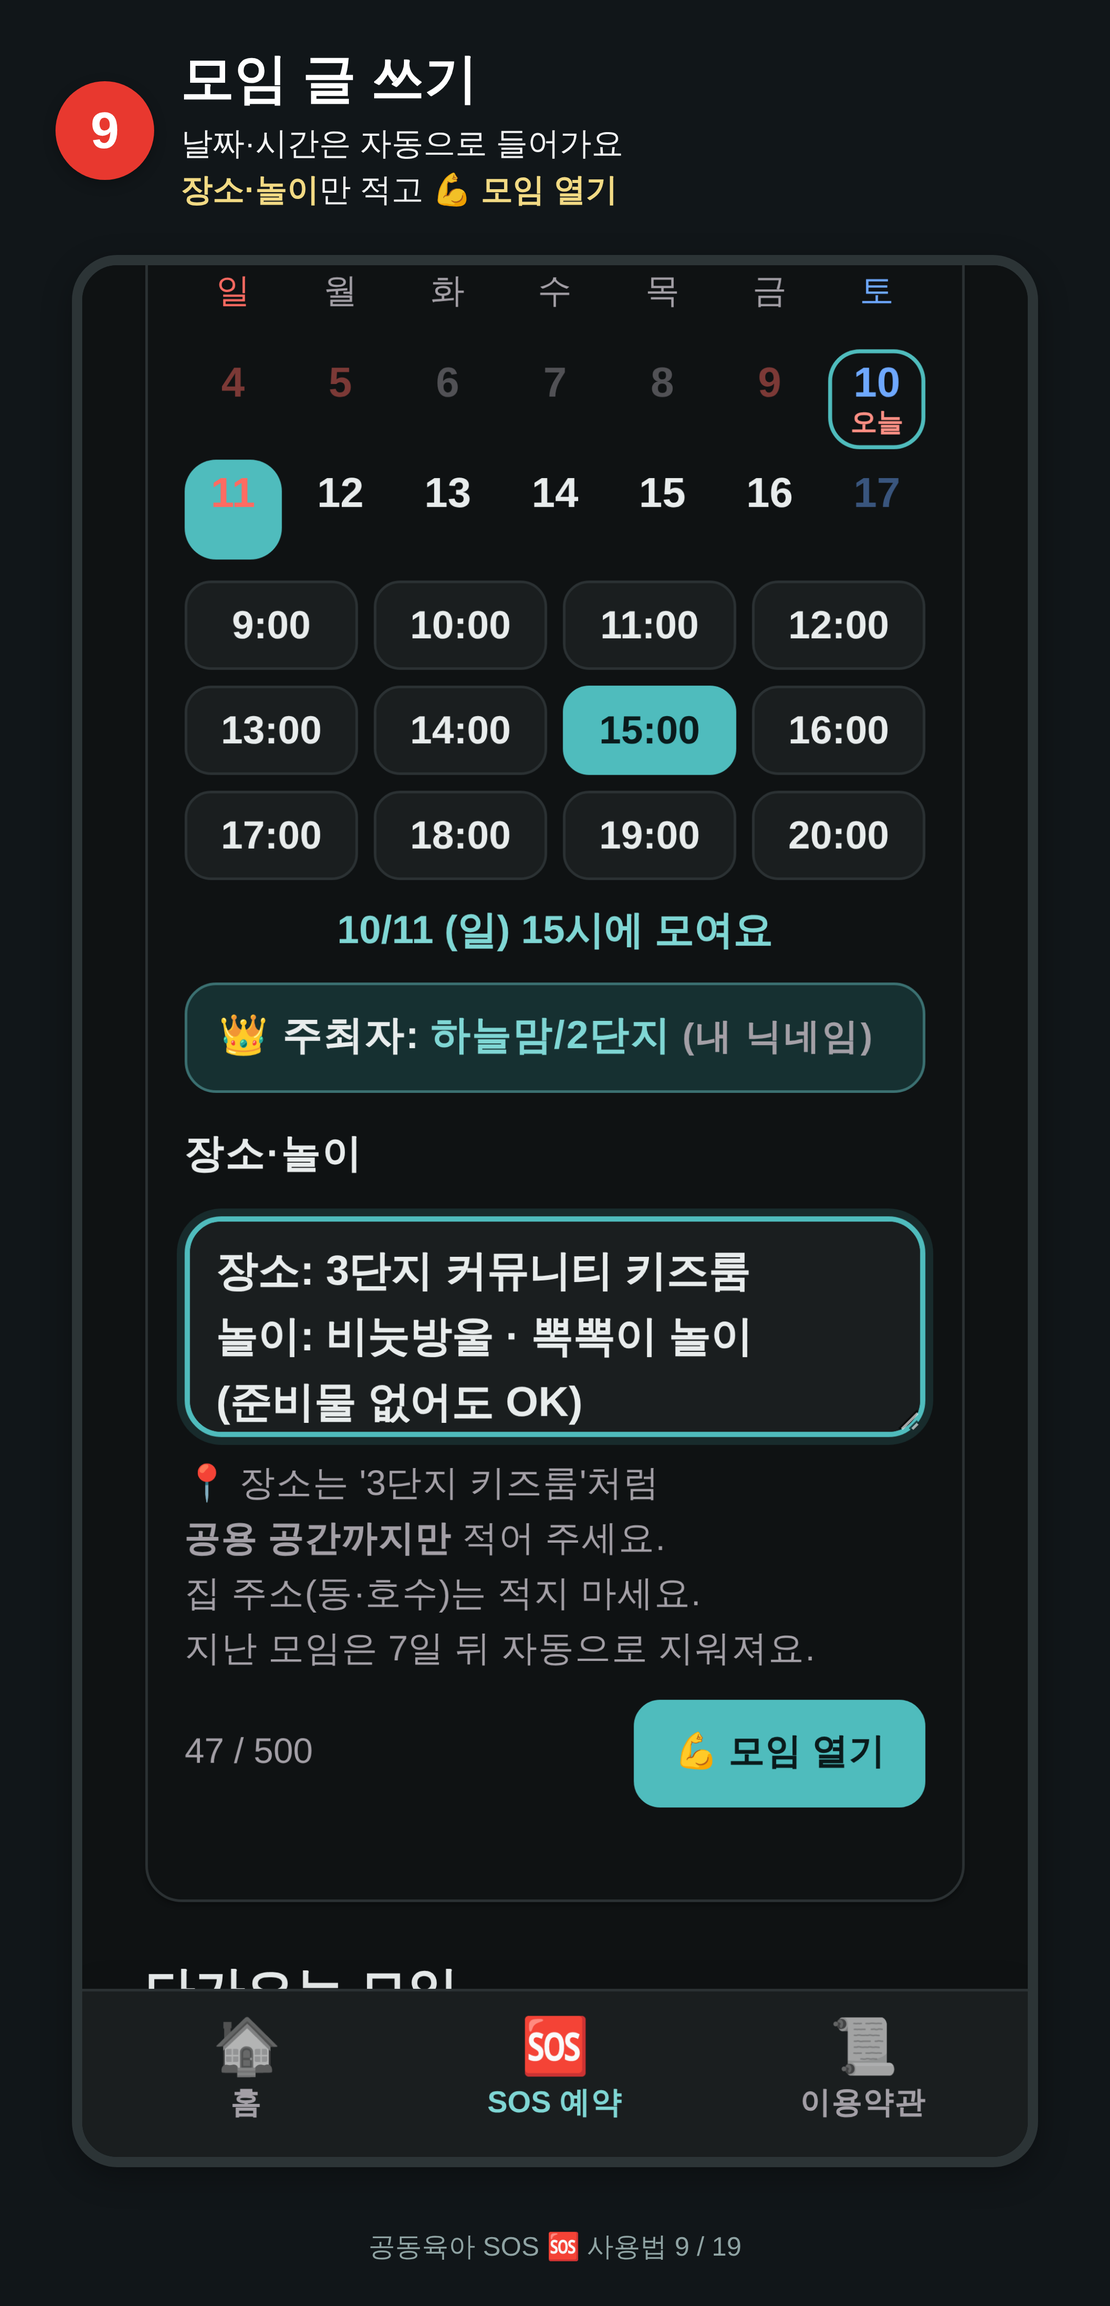
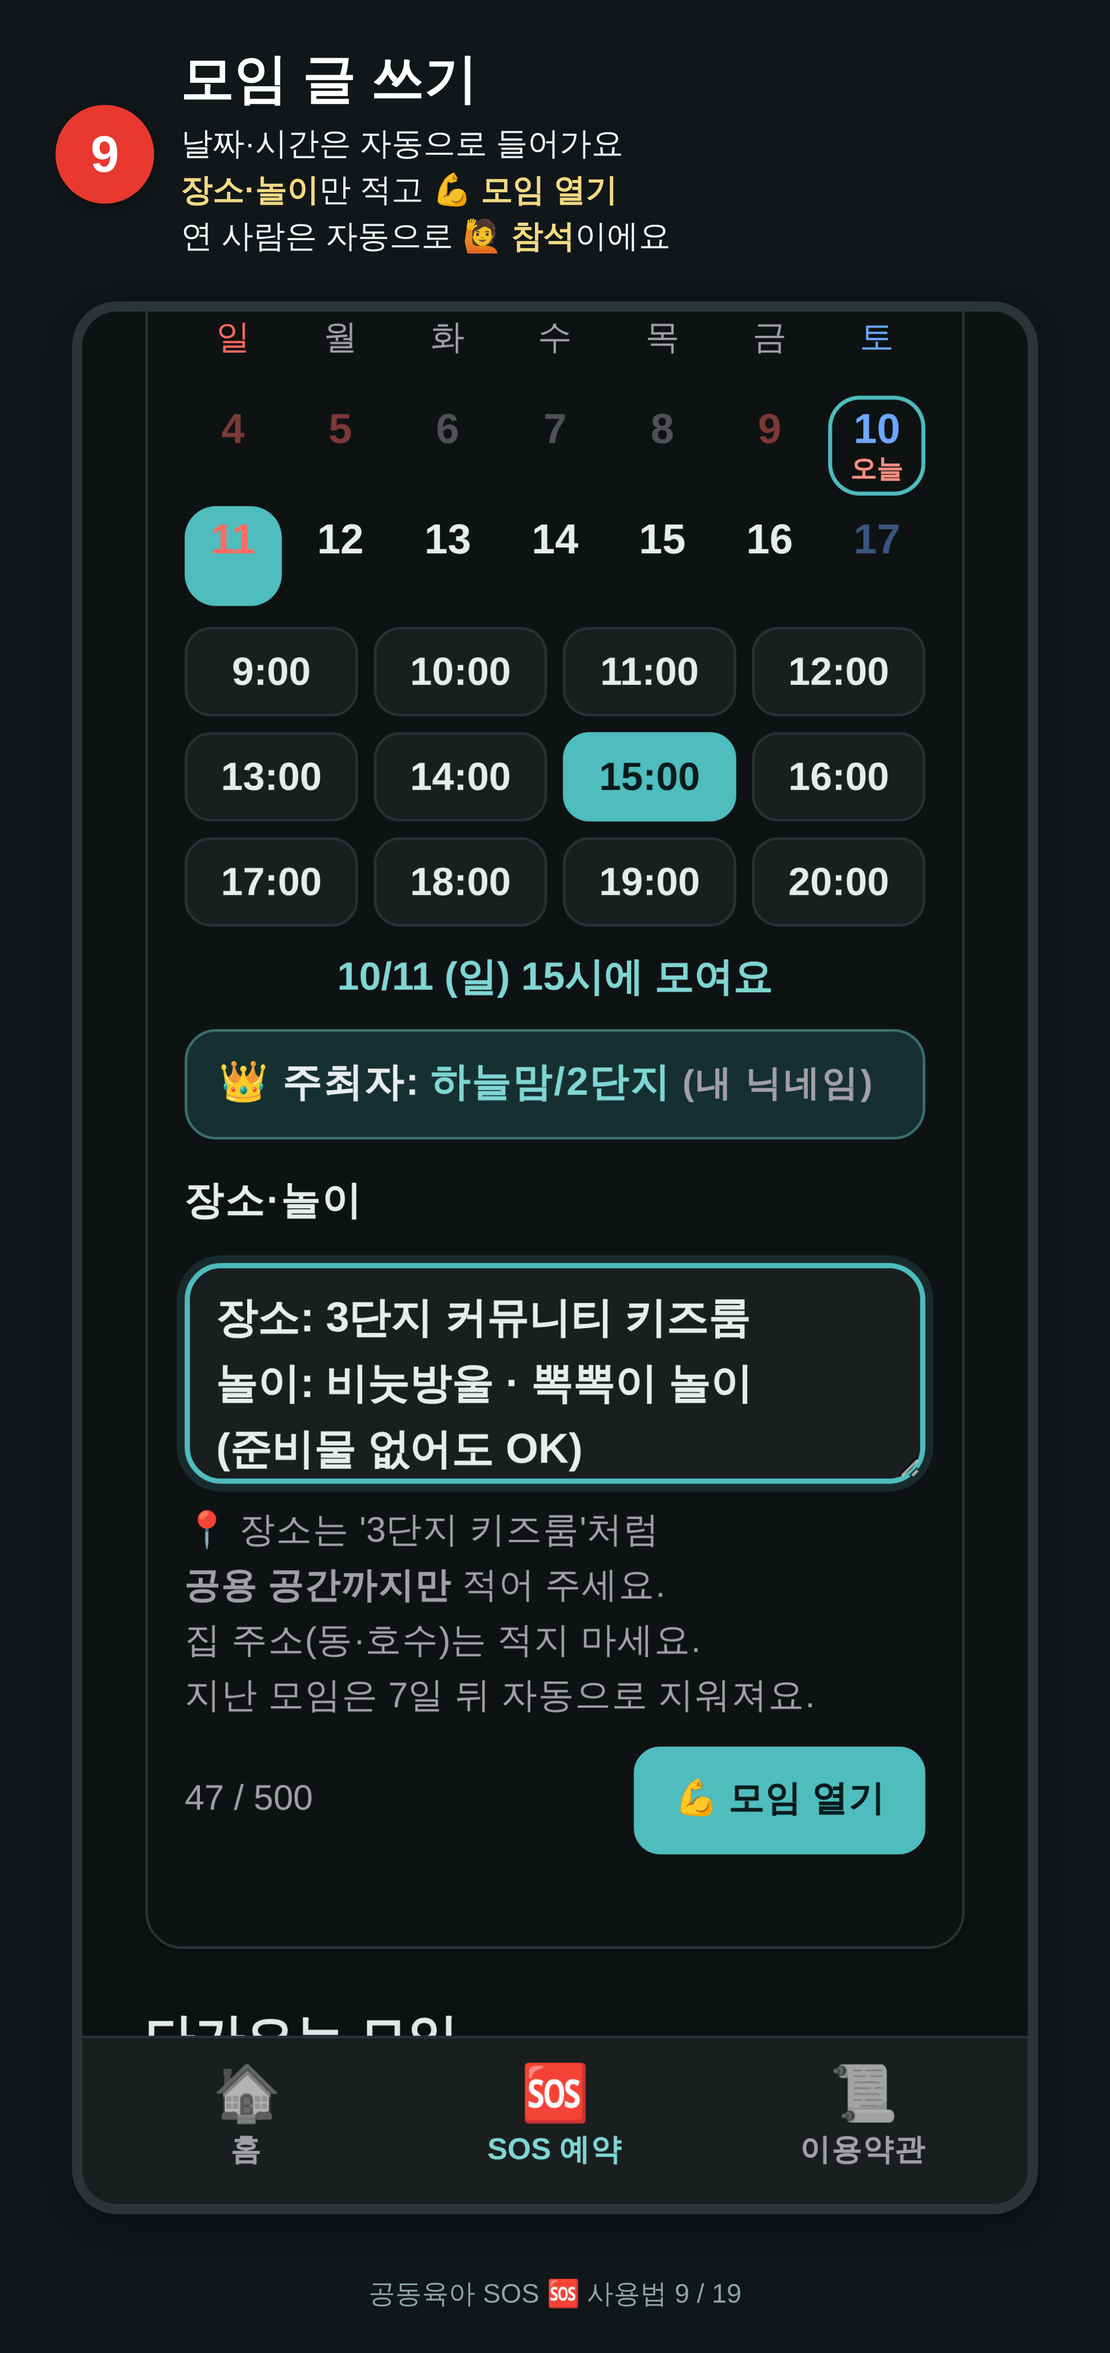
Update terms, privacy and guide: browser type, visit counts, join log, host auto-attend, install tip
Claude-Session: https://claude.ai/code/session_01EFizHcDdWswyQN5TmKwWHe

diff --git a/sos/safety.html b/sos/safety.html
@@ -8,14 +8,14 @@
 <link rel="preconnect" href="https://fonts.gstatic.com" crossorigin>
 <link rel="stylesheet" href="https://fonts.googleapis.com/css2?family=IBM+Plex+Sans+KR:wght@400;500;600;700&display=swap">
 <link rel="icon" href="assets/icon.svg" type="image/svg+xml">
-<link rel="manifest" href="manifest.webmanifest?v=202610110428">
+<link rel="manifest" href="manifest.webmanifest?v=202610110430">
 <meta name="theme-color" content="#2a9095">
 <link rel="apple-touch-icon" href="assets/icon-sos-180.png">
 <meta name="apple-mobile-web-app-capable" content="yes">
 <meta name="mobile-web-app-capable" content="yes">
 <meta name="apple-mobile-web-app-title" content="공동육아 SOS">
-<link rel="stylesheet" href="assets/common.css?v=202610110428">
-<script src="assets/gate.js?v=202610110428"></script>
+<link rel="stylesheet" href="assets/common.css?v=202610110430">
+<script src="assets/gate.js?v=202610110430"></script>
 </head>
 <body>
 <div class="wrap single">
@@ -80,8 +80,8 @@
         <li>회원가입이 없어요. <b>실명, 전화번호, 카카오 계정, 이메일을 받지 않아요.</b></li>
         <li>휴대폰마다 Firebase <b>익명 로그인</b>으로 보이지 않는 번호(uid)가 하나 생겨요. 이 번호로 '이 휴대폰이 방 멤버인지'만 확인해요. 이 번호에는 이름·전화번호가 없어요.</li>
         <li>사진·위치·연락처·카메라 권한을 요청하지 않아요.</li>
-        <li>이 사이트 코드에는 광고, 방문 추적(애널리틱스), 쿠키 수집이 없어요.</li>
-        <li>글을 저장할 때 IP 주소나 기기 정보를 함께 적지 않아요. 저장되는 칸은 아래 표가 전부예요.</li>
+        <li>광고, 외부 방문 추적 도구(애널리틱스), 광고용 쿠키가 없어요. 운영 확인용으로 <b>날짜별 방문 숫자</b>(오늘 몇 명·몇 번 열었는지)만 세요. 누가 들어왔는지는 남기지 않아요.</li>
+        <li>IP 주소, 기기 모델, 전화번호 같은 기기 정보는 저장하지 않아요. 중복 정리를 위해 <b>어떤 종류의 브라우저인지</b>(예: 크롬·카톡)만 남겨요. 저장되는 칸은 아래 표가 전부예요.</li>
       </ul>
     </section>
 
@@ -90,9 +90,10 @@
       <table class="safe-table">
         <tr><th>어디서</th><th>저장되는 것</th></tr>
         <tr><td>🏠 모임 방</td><td><b>방 이름만</b>. 비밀번호는 저장하지 않아요. 비밀번호로 만든 암호화된 열쇠가 방 주소가 돼서, 비밀번호를 아는 사람만 방을 찾을 수 있어요.</td></tr>
-        <tr><td>🙋 멤버</td><td>방에서 쓰는 <b>닉네임</b>(직접 적은 것), 들어온 시각, 마지막 접속 시간(방장만 봐요. 1시간 단위로 남아요. 중복·오래 안 온 멤버 정리와 방장 이어받기에 써요), 익명 로그인 번호(uid). 내보내진 사람의 내보낸 시각과 <b>'다시 받아 주세요' 부탁 글</b>(방장만 봐요. 내보낸 지 30일이 지나거나 허용·거절하면 지워져요)</td></tr>
+        <tr><td>🙋 멤버</td><td>방에서 쓰는 <b>닉네임</b>(직접 적은 것), 들어온 시각, 마지막 접속 시간(방장만 봐요. 1시간 단위로 남아요. 중복·오래 안 온 멤버 정리와 방장 이어받기에 써요), <b>쓰는 브라우저 종류</b>(크롬·사파리·카톡 등 정해진 이름 하나. 방장만 봐요. 같은 사람이 두 번 들어온 중복을 찾는 데 써요), 익명 로그인 번호(uid). 내보내진 사람의 내보낸 시각과 <b>'다시 받아 주세요' 부탁 글</b>(방장만 봐요. 내보낸 지 30일이 지나거나 허용·거절하면 지워져요)</td></tr>
         <tr><td>🆘 SOS 요청</td><td>날짜·시간 + <b>요청한 사람의 닉네임</b>. 방 사람들은 시간 숫자를 눌러 누가 보냈는지 볼 수 있어요.</td></tr>
-        <tr><td>🙌 모임</td><td>날짜·시간, 장소/놀이 글, <b>주최자 닉네임</b>, 참석·미확정·불참한 사람의 닉네임, 댓글 글과 닉네임</td></tr>
+        <tr><td>🙌 모임</td><td>날짜·시간, 장소/놀이 글, <b>주최자 닉네임</b>(연 사람은 처음부터 '참석'으로 표시돼요), 참석·미확정·불참한 사람의 닉네임, 댓글 글과 닉네임</td></tr>
+        <tr><td>📈 운영 통계</td><td>방 사람들은 볼 수 없고 <b>운영자만</b> 봐요. ① 날짜별 방문자 수·조회수 숫자 두 개 (누가 왔는지는 없어요) ② 방마다 '들어온 시각' 기록 (닉네임 없이 시각만. 누적 가입자 수를 세는 데 써요)</td></tr>
       </table>
       <p class="hint">모임 방마다 따로 저장돼서, <b>방 비밀번호를 아는 사람만</b> 그 방의 SOS·모임·댓글을 볼 수 있어요. 다른 방 사람은 볼 수 없어요.<br>통신은 모두 암호화(HTTPS)돼요. 서버는 Google Firebase를 써요.</p>
     </section>
@@ -104,6 +105,7 @@
         <li>들어간 모임 방 목록과 방 열쇠 (비밀번호 자체가 아니라 암호화된 값)</li>
         <li>내 댓글 열쇠 — 그래서 댓글 '수정'·'삭제'는 쓴 휴대폰에만 보여요 (서버에는 열쇠의 지문만 저장돼요)</li>
         <li>마지막으로 쓴 닉네임 (다음 방에 들어갈 때 미리 채워 줘요)</li>
+        <li>오늘 방문을 이미 셌는지 표시 (같은 휴대폰을 하루에 한 번만 세려고요)</li>
       </ul>
       <p class="hint">브라우저의 '인터넷 기록/사이트 데이터 삭제'를 하면 이 기록과 익명 로그인 번호가 지워져요. 그러면 방에 다시 들어갈 때 비밀번호와 닉네임을 다시 넣어요. (서버에 올라간 글은 그대로예요)</p>
     </section>
@@ -135,8 +137,8 @@
 <script src="https://www.gstatic.com/firebasejs/10.12.0/firebase-auth-compat.js"></script>
 <script src="https://www.gstatic.com/firebasejs/10.12.0/firebase-firestore-compat.js"></script>
 <script src="https://www.gstatic.com/firebasejs/10.12.0/firebase-messaging-compat.js"></script>
-<script src="assets/common.js?v=202610110428"></script>
-<script src="assets/push.js?v=202610110428"></script>
+<script src="assets/common.js?v=202610110430"></script>
+<script src="assets/push.js?v=202610110430"></script>
 <script>
 document.getElementById('deleteMe').addEventListener('click', async e => {
   const owning = sosRooms().filter(r => r.owner).map(r => r.name);   // 내가 방장인 방이 있으면 먼저 알려 줘요

diff --git a/sos/terms.html b/sos/terms.html
@@ -8,14 +8,14 @@
 <link rel="preconnect" href="https://fonts.gstatic.com" crossorigin>
 <link rel="stylesheet" href="https://fonts.googleapis.com/css2?family=IBM+Plex+Sans+KR:wght@400;500;600;700&display=swap">
 <link rel="icon" href="assets/icon.svg" type="image/svg+xml">
-<link rel="manifest" href="manifest.webmanifest?v=202610110428">
+<link rel="manifest" href="manifest.webmanifest?v=202610110430">
 <meta name="theme-color" content="#2a9095">
 <link rel="apple-touch-icon" href="assets/icon-sos-180.png">
 <meta name="apple-mobile-web-app-capable" content="yes">
 <meta name="mobile-web-app-capable" content="yes">
 <meta name="apple-mobile-web-app-title" content="공동육아 SOS">
-<link rel="stylesheet" href="assets/common.css?v=202610110428">
-<script src="assets/gate.js?v=202610110428"></script>
+<link rel="stylesheet" href="assets/common.css?v=202610110430">
+<script src="assets/gate.js?v=202610110430"></script>
 </head>
 <body>
 <div class="wrap single">
@@ -62,7 +62,7 @@
       <h2>👑 방장은 이렇게 해요</h2>
       <ul class="safe-short">
         <li>방을 만든 사람이 방장이에요.<br>멤버 관리와 방 지우기를 해요.</li>
-        <li>방장에게는 멤버의 <b>마지막 접속 시간</b>이<br>최근 순으로 보여요.<br>중복 기록·오래 안 온 멤버를 정리할 때 써요.</li>
+        <li>방장에게는 멤버의 <b>마지막 접속 시간</b>과<br><b>쓰는 브라우저</b>(크롬·카톡 등 로고)가 보여요.<br>중복 기록·오래 안 온 멤버를 정리할 때 써요.</li>
         <li>공동육아를 졸업하면 <b>👑 방장 넘기기</b>로<br>다른 멤버에게 넘겨 주세요.</li>
         <li>방장이 60일 넘게 안 들어오거나 나가면,<br>멤버 누구나 방장을 <b>이어받을</b> 수 있어요.</li>
         <li>실수로 내보내진 사람은<br><b>🙋 다시 받아 달라는 부탁</b>을<br>보낼 수 있어요.<br>방장은 👥 멤버의 빨간 <b>N</b>으로 보고<br>허용하거나 거절해요.</li>
@@ -75,6 +75,7 @@
       <ul class="safe-short">
         <li>키즈룸·커뮤니티·놀이터처럼<br><b>공용 공간</b>에서 만나요.</li>
         <li>아이는 <b>보호자가 직접</b> 돌봐요.</li>
+        <li>모임을 연 사람은 처음부터 <b>참석</b>으로 표시돼요.<br>못 가게 되면 미확정·불참으로 바꿔 주세요.</li>
         <li>모임 중 생긴 일은 참여한 사람들끼리<br>서로 존중하며 해결해 주세요.<br>운영자는 모임 자체에 책임지지 않아요.</li>
       </ul>
     </section>
@@ -83,11 +84,12 @@
       <h2>🔒 개인정보는 이렇게 다뤄요</h2>
       <ul class="safe-short">
         <li><b>실명·전화번호·이메일은 받지 않아요.</b><br>방에서 쓸 <b>닉네임</b>만 정해요.</li>
-        <li>서버에 남는 것: 방 이름, 닉네임,<br>마지막 접속 시간, SOS 요청 날짜·시간,<br>모임 글·참석·댓글,<br>내보낸 시각과 부탁 글<br>(30일 뒤 또는 허용·거절하면 지워져요)</li>
+        <li>서버에 남는 것: 방 이름, 닉네임,<br>마지막 접속 시간, 브라우저 종류,<br>SOS 요청 날짜·시간,<br>모임 글·참석·댓글,<br>내보낸 시각과 부탁 글<br>(30일 뒤 또는 허용·거절하면 지워져요)</li>
         <li>비밀번호는 저장하지 않아요.<br><b>우리 방 사람만</b> 기록을 볼 수 있어요.</li>
         <li>SOS·모임·댓글은 날짜가 지나고<br><b>7일 뒤 자동으로 지워져요.</b></li>
         <li>휴대폰마다 보이지 않는 로그인 번호가<br>하나 생겨요. 멤버인지 확인하는 데만 써요.</li>
         <li>알림을 켜면 <b>알림 주소</b>만<br>Google 알림 서버에 등록돼요.</li>
+        <li>운영자는 날짜별 <b>방문자 수 숫자</b>만 봐요.<br>누가 들어왔는지는 남기지 않아요.</li>
       </ul>
       <p class="hint">자세한 내용은 <a href="safety.html">🔒 개인정보 안내</a>에 있어요.</p>
     </section>
@@ -103,13 +105,13 @@
     <section class="safe-card">
       <h2>✉ 문의 · 신고</h2>
       <p>운영자: <span data-contact></span><br>개인정보 안내는 <a href="safety.html">🔒 개인정보 페이지</a>에 있어요.</p>
-      <p class="hint">이 약관은 2026년 10월 8일부터 적용돼요.<br>바뀌면 앱 안에서 알려 드려요.</p>
+      <p class="hint">이 약관은 2026년 10월 11일부터 적용돼요.<br>바뀌면 앱 안에서 알려 드려요.</p>
     </section>
   </main>
 </div>
 <script src="https://www.gstatic.com/firebasejs/10.12.0/firebase-app-compat.js"></script>
 <script src="https://www.gstatic.com/firebasejs/10.12.0/firebase-auth-compat.js"></script>
 <script src="https://www.gstatic.com/firebasejs/10.12.0/firebase-firestore-compat.js"></script>
-<script src="assets/common.js?v=202610110428"></script>
+<script src="assets/common.js?v=202610110430"></script>
 </body>
 </html>

diff --git a/sos/index.html b/sos/index.html
@@ -9,14 +9,14 @@
 <link rel="preconnect" href="https://fonts.gstatic.com" crossorigin>
 <link rel="stylesheet" href="https://fonts.googleapis.com/css2?family=IBM+Plex+Sans+KR:wght@400;500;600;700&display=swap">
 <link rel="icon" href="assets/icon.svg" type="image/svg+xml">
-<link rel="manifest" href="manifest.webmanifest?v=202610110428">
+<link rel="manifest" href="manifest.webmanifest?v=202610110430">
 <meta name="theme-color" content="#2a9095">
 <link rel="apple-touch-icon" href="assets/icon-sos-180.png">
 <meta name="apple-mobile-web-app-capable" content="yes">
 <meta name="mobile-web-app-capable" content="yes">
 <meta name="apple-mobile-web-app-title" content="공동육아 SOS">
-<link rel="stylesheet" href="assets/common.css?v=202610110428">
-<script src="assets/gate.js?v=202610110428"></script>
+<link rel="stylesheet" href="assets/common.css?v=202610110430">
+<script src="assets/gate.js?v=202610110430"></script>
 </head>
 <body>
 <div class="wrap single">
@@ -85,8 +85,8 @@
 <script src="https://www.gstatic.com/firebasejs/10.12.0/firebase-auth-compat.js"></script>
 <script src="https://www.gstatic.com/firebasejs/10.12.0/firebase-firestore-compat.js"></script>
 <script src="https://www.gstatic.com/firebasejs/10.12.0/firebase-messaging-compat.js"></script>
-<script src="assets/common.js?v=202610110428"></script>
-<script src="assets/push.js?v=202610110428"></script>
+<script src="assets/common.js?v=202610110430"></script>
+<script src="assets/push.js?v=202610110430"></script>
 <script>
 sosSummary();
 // 🦸 구원자: 처음엔 오른쪽 위에서 흔들흔들 → 조금 뒤 테두리를 한 바퀴 날고 다시 제자리 (그 뒤로도 가끔)

diff --git a/sos/meet.html b/sos/meet.html
@@ -8,14 +8,14 @@
 <link rel="preconnect" href="https://fonts.gstatic.com" crossorigin>
 <link rel="stylesheet" href="https://fonts.googleapis.com/css2?family=IBM+Plex+Sans+KR:wght@400;500;600;700&display=swap">
 <link rel="icon" href="assets/icon.svg" type="image/svg+xml">
-<link rel="manifest" href="manifest.webmanifest?v=202610110428">
+<link rel="manifest" href="manifest.webmanifest?v=202610110430">
 <meta name="theme-color" content="#2a9095">
 <link rel="apple-touch-icon" href="assets/icon-sos-180.png">
 <meta name="apple-mobile-web-app-capable" content="yes">
 <meta name="mobile-web-app-capable" content="yes">
 <meta name="apple-mobile-web-app-title" content="공동육아 SOS">
-<link rel="stylesheet" href="assets/common.css?v=202610110428">
-<script src="assets/gate.js?v=202610110428"></script>
+<link rel="stylesheet" href="assets/common.css?v=202610110430">
+<script src="assets/gate.js?v=202610110430"></script>
 </head>
 <body>
 <div class="wrap single">
@@ -59,8 +59,8 @@
 <script src="https://www.gstatic.com/firebasejs/10.12.0/firebase-auth-compat.js"></script>
 <script src="https://www.gstatic.com/firebasejs/10.12.0/firebase-firestore-compat.js"></script>
 <script src="https://www.gstatic.com/firebasejs/10.12.0/firebase-messaging-compat.js"></script>
-<script src="assets/common.js?v=202610110428"></script>
-<script src="assets/push.js?v=202610110428"></script>
-<script src="assets/meet.js?v=202610110428"></script>
+<script src="assets/common.js?v=202610110430"></script>
+<script src="assets/push.js?v=202610110430"></script>
+<script src="assets/meet.js?v=202610110430"></script>
 </body>
 </html>

diff --git a/sos/play.html b/sos/play.html
@@ -8,14 +8,14 @@
 <link rel="preconnect" href="https://fonts.gstatic.com" crossorigin>
 <link rel="stylesheet" href="https://fonts.googleapis.com/css2?family=IBM+Plex+Sans+KR:wght@400;500;600;700&display=swap">
 <link rel="icon" href="assets/icon.svg" type="image/svg+xml">
-<link rel="manifest" href="manifest.webmanifest?v=202610110428">
+<link rel="manifest" href="manifest.webmanifest?v=202610110430">
 <meta name="theme-color" content="#2a9095">
 <link rel="apple-touch-icon" href="assets/icon-sos-180.png">
 <meta name="apple-mobile-web-app-capable" content="yes">
 <meta name="mobile-web-app-capable" content="yes">
 <meta name="apple-mobile-web-app-title" content="공동육아 SOS">
-<link rel="stylesheet" href="assets/common.css?v=202610110428">
-<script src="assets/gate.js?v=202610110428"></script>
+<link rel="stylesheet" href="assets/common.css?v=202610110430">
+<script src="assets/gate.js?v=202610110430"></script>
 </head>
 <body>
 <div class="wrap">
@@ -135,8 +135,8 @@
 <script src="https://www.gstatic.com/firebasejs/10.12.0/firebase-app-compat.js"></script>
 <script src="https://www.gstatic.com/firebasejs/10.12.0/firebase-auth-compat.js"></script>
 <script src="https://www.gstatic.com/firebasejs/10.12.0/firebase-firestore-compat.js"></script>
-<script src="plays.js?v=202610110428"></script>
-<script src="assets/common.js?v=202610110428"></script>
-<script src="assets/play.js?v=202610110428"></script>
+<script src="plays.js?v=202610110430"></script>
+<script src="assets/common.js?v=202610110430"></script>
+<script src="assets/play.js?v=202610110430"></script>
 </body>
 </html>

diff --git a/sos/admin.html b/sos/admin.html
@@ -12,8 +12,8 @@
 <meta name="apple-mobile-web-app-capable" content="yes">
 <meta name="mobile-web-app-capable" content="yes">
 <meta name="apple-mobile-web-app-title" content="SOS 운영">
-<link rel="stylesheet" href="assets/common.css?v=202610110428">
-<script src="assets/gate.js?v=202610110428"></script>
+<link rel="stylesheet" href="assets/common.css?v=202610110430">
+<script src="assets/gate.js?v=202610110430"></script>
 <style>
 /* 운영자 화면: 숫자 타일 → 주간 막대 → 방 표. 단일 색(teal) 막대, 상태색은 경고에만 */
 body{padding-block:20px 60px}

diff --git a/sos/guide.html b/sos/guide.html
@@ -5,7 +5,7 @@
 <meta name="viewport" content="width=device-width,initial-scale=1,viewport-fit=cover">
 <title>사용법 · 공동육아 SOS</title>
 <link rel="icon" href="assets/icon.svg" type="image/svg+xml">
-<link rel="manifest" href="manifest.webmanifest?v=202610110428">
+<link rel="manifest" href="manifest.webmanifest?v=202610110430">
 <meta name="theme-color" content="#2a9095">
 <link rel="apple-touch-icon" href="assets/icon-sos-180.png">
 <style>
